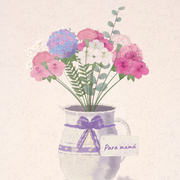
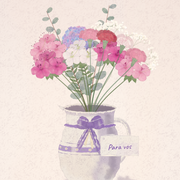
Firma configurable: ?de=Nombre y campo en el armador
La firma sale de ?de= (vacío = sin firma, y sin el «Con cariño,»
colgando); sin parámetro firma Rober. El armador suma «¿De parte de
quién?» con Rober ya puesto, y el botón del final abre el armador con la
firma vacía para que cada mamá lo reenvíe con su nombre. Íconos con la
tarjeta «Para vos».

Claude-Session: https://claude.ai/code/session_01R1U5VnWze2bYRMo4Eff5Sw

Changed region(s): [[0.1667, 0.0, 0.8333, 0.6389], [0.5833, 0.8056, 0.75, 0.8333]]

diff --git a/src/main.js b/src/main.js
@@ -33,8 +33,11 @@ const steps = (demoN
   ? (demoN <= 8 ? ['helecho', 'eucalipto', 'rosa roja', 'gerbera', 'rosa amarilla', 'crisantemo', 'alstroemeria', 'paniculata'] : DEMO).slice(0, Math.min(16, demoN)).map((flor, i) => ({ flor, verso: `[VERSO ${i + 1} – reemplazar]` }))
   : content.pasos || []).slice(0, 16);
 // ?para=Ana personaliza la tarjeta y el subtítulo (el ramo es el mismo para todas)
-const para = (params.get('para') || '').replace(/\s+/g, ' ').trim().slice(0, 28);
+const limpio = (v) => v.replace(/\s+/g, ' ').trim().slice(0, 28);
+const para = limpio(params.get('para') || '');
 const destinataria = para || content.destinataria;
+// ?de=Nombre cambia la firma; ?de= vacío la saca (sin parámetro, la de content.js)
+const firma = params.has('de') ? limpio(params.get('de') || '') : content.firma || '';
 const seed = `${content.destinataria || 'ramo'}-${steps.map((s) => s.flor).join('|')}`;
 
 const stage = new Stage($('#scene'), { reduced });
@@ -285,11 +288,13 @@ function fillFinal() {
     poem.append(p);
   }
   const msg = finalEl.querySelector('.message');
-  msg.textContent = content.mensajeFinal || '';
+  // sin firma, el saludo no queda colgando
+  msg.textContent = firma ? content.mensajeFinal || '' : (content.mensajeFinal || '').replace(/\n+[^\n]*,\s*$/, '');
   msg.classList.toggle('placeholder', isPlaceholder(msg.textContent));
   const sign = finalEl.querySelector('.sign');
-  sign.textContent = `— ${content.firma || ''}`;
-  sign.classList.toggle('placeholder', isPlaceholder(content.firma || ''));
+  sign.textContent = firma ? `— ${firma}` : '';
+  sign.hidden = !firma;
+  sign.classList.toggle('placeholder', isPlaceholder(firma));
   const label = `Para ${destinataria}`;
   const cardText = cardEl.querySelector('span');
   cardText.textContent = label;
@@ -350,20 +355,9 @@ soundEl.addEventListener('click', () => {
 });
 finalEl.querySelector('.again').addEventListener('click', restart);
 
-// Compartir el regalo sin el nombre de esta destinataria.
-const shareEl = finalEl.querySelector('.share');
-shareEl.addEventListener('click', async () => {
-  const url = location.origin + location.pathname;
-  const data = { title: content.titulo || 'Feliz día', text: 'Un regalito para vos: tocá la pantalla y armá el ramo.', url };
-  try {
-    if (navigator.share) return await navigator.share(data);
-    await navigator.clipboard.writeText(url);
-    shareEl.textContent = '¡link copiado!';
-  } catch (e) {
-    if (e && e.name === 'AbortError') return; // cerró el menú de compartir
-    shareEl.textContent = url;
-  }
-  setTimeout(() => { shareEl.textContent = 'mandáselo a otra mamá'; }, 2600);
+// Para mandárselo a otra mamá: el armador, así cada una pone su nombre y su firma.
+finalEl.querySelector('.share').addEventListener('click', () => {
+  location.href = '/armar.html?otra';
 });
 document.addEventListener('gesturestart', (e) => e.preventDefault());
 let resizeT = 0;

diff --git a/src/armar.js b/src/armar.js
@@ -1,20 +1,32 @@
-// Armador de links: un link por mamá con ?para=Nombre, listo para copiar o
-// mandar por WhatsApp.
+// Armador de links: un link por mamá con ?para=Nombre (y ?de=Firma si no es
+// la de content.js), listo para copiar o mandar por WhatsApp.
 import '@fontsource/cormorant-garamond/latin-500-italic.css';
 import '@fontsource/caveat/latin-500.css';
 import './armar.css';
+import content from './content.js';
 
 const $ = (s) => document.querySelector(s);
 const input = $('#nombre');
+const deEl = $('#de');
+// Si llega desde el botón del final (?otra), es otra persona: la firma
+// arranca vacía para que ponga la suya.
+deEl.value = new URLSearchParams(location.search).has('otra') ? '' : content.firma || '';
 const linkEl = $('#link');
 const wa = $('#wa');
 const ver = $('#ver');
 const estado = $('#estado');
 const base = location.origin + '/';
 
-function linkPara(nombre) {
-  const n = nombre.replace(/\s+/g, ' ').trim();
-  return n ? `${base}?para=${encodeURIComponent(n)}` : base;
+const limpio = (v) => v.replace(/\s+/g, ' ').trim();
+
+// ?para= con su nombre; ?de= solo si la firma no es la de siempre
+// (vacío = sin firma).
+function linkPara(nombre, de = deEl.value) {
+  const q = new URLSearchParams();
+  if (limpio(nombre)) q.set('para', limpio(nombre));
+  if (limpio(de) !== (content.firma || '')) q.set('de', limpio(de));
+  const qs = q.toString().replace(/\+/g, '%20');
+  return qs ? `${base}?${qs}` : base;
 }
 
 function mensaje(nombre, url) {
@@ -45,4 +57,5 @@ $('#form').addEventListener('submit', (e) => {
   input.blur();
 });
 input.addEventListener('input', render);
+deEl.addEventListener('input', render);
 render();

diff --git a/armar.html b/armar.html
@@ -12,10 +12,14 @@
 <main class="armar">
   <img class="ramo" src="/icon-512.png" alt="" width="132" height="132" />
   <h1>Un link para cada mamá</h1>
-  <p class="intro">Escribí su nombre y la tarjetita de la jarra va a decir «Para» y su nombre. Si lo dejás vacío, dice «Para vos».</p>
+  <p class="intro">Escribí su nombre y el tuyo: la tarjetita de la jarra dice «Para» y su nombre, y el poema termina firmado por vos.</p>
   <form id="form" autocomplete="off">
     <label for="nombre">¿Para quién es?</label>
-    <input id="nombre" name="nombre" type="text" maxlength="28" placeholder="Por ejemplo, Marta" enterkeyhint="done" />
+    <input id="nombre" name="nombre" type="text" maxlength="28" placeholder="Por ejemplo, Marta" enterkeyhint="next" />
+    <p class="ayuda">Si lo dejás vacío, dice «Para vos».</p>
+    <label for="de">¿De parte de quién?</label>
+    <input id="de" name="de" type="text" maxlength="28" placeholder="Tu nombre" enterkeyhint="done" />
+    <p class="ayuda">Así firma el poema al final. Si lo dejás vacío, va sin firma.</p>
   </form>
   <p class="link" id="link" aria-live="polite"></p>
   <div class="botones">

diff --git a/src/armar.css b/src/armar.css
@@ -35,8 +35,9 @@ input {
 input::placeholder { color: rgba(110, 80, 104, .5); }
 input:focus { outline: none; border-color: var(--accent); box-shadow: 0 0 0 3px var(--accent-soft); }
 
+.ayuda { margin: 6px 4px 16px; font-size: 13px; color: var(--ink-soft); }
 .link {
-  width: 100%; margin: 14px 0 20px; padding: 10px 12px; border-radius: 8px; background: var(--accent-soft);
+  width: 100%; margin: 4px 0 20px; padding: 10px 12px; border-radius: 8px; background: var(--accent-soft);
   font-size: 13px; color: var(--ink-soft); word-break: break-all; user-select: all; -webkit-user-select: all;
 }
 

diff --git a/README.md b/README.md
@@ -28,10 +28,13 @@ texto de la pista, mensaje final y la lista de pasos `{ flor, verso }`.
 
 ## Mandarlo a cada mamá
 
-- `armar.html` arma un link por mamá: escribís el nombre y da el link con
-  `?para=Nombre`, listo para copiar o mandar por WhatsApp. La tarjetita de la
-  jarra dice «Para» y ese nombre; sin nombre, dice «Para vos».
-- Al final del regalo, «mandáselo a otra mamá» comparte el link sin nombre.
+- `armar.html` arma un link por mamá: su nombre (`?para=Nombre`) y de parte
+  de quién (`?de=Nombre`), listo para copiar o mandar por WhatsApp. La
+  tarjetita de la jarra dice «Para» y ese nombre (sin nombre, «Para vos»), y
+  el poema termina firmado con `de`. Sin `de` firma la de `content.js`
+  (Rober); con `de` vacío va sin firma.
+- Al final del regalo, «mandáselo a otra mamá» lleva al armador con la firma
+  vacía, para que cada una lo mande con su nombre.
 - `public/og.png` es la vista previa que muestra WhatsApp al pegar el link.
 
 ## Detalles del recorrido
